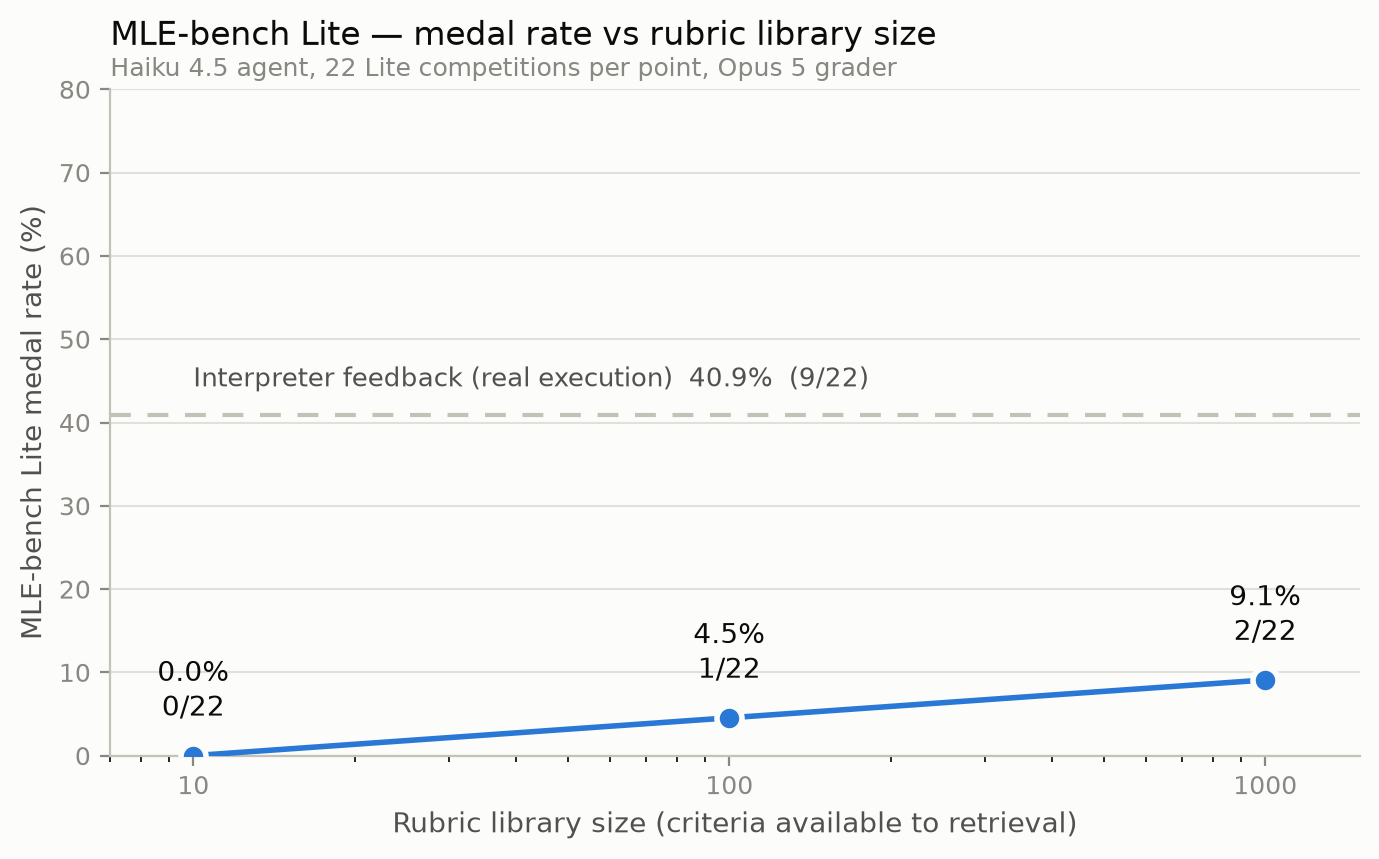
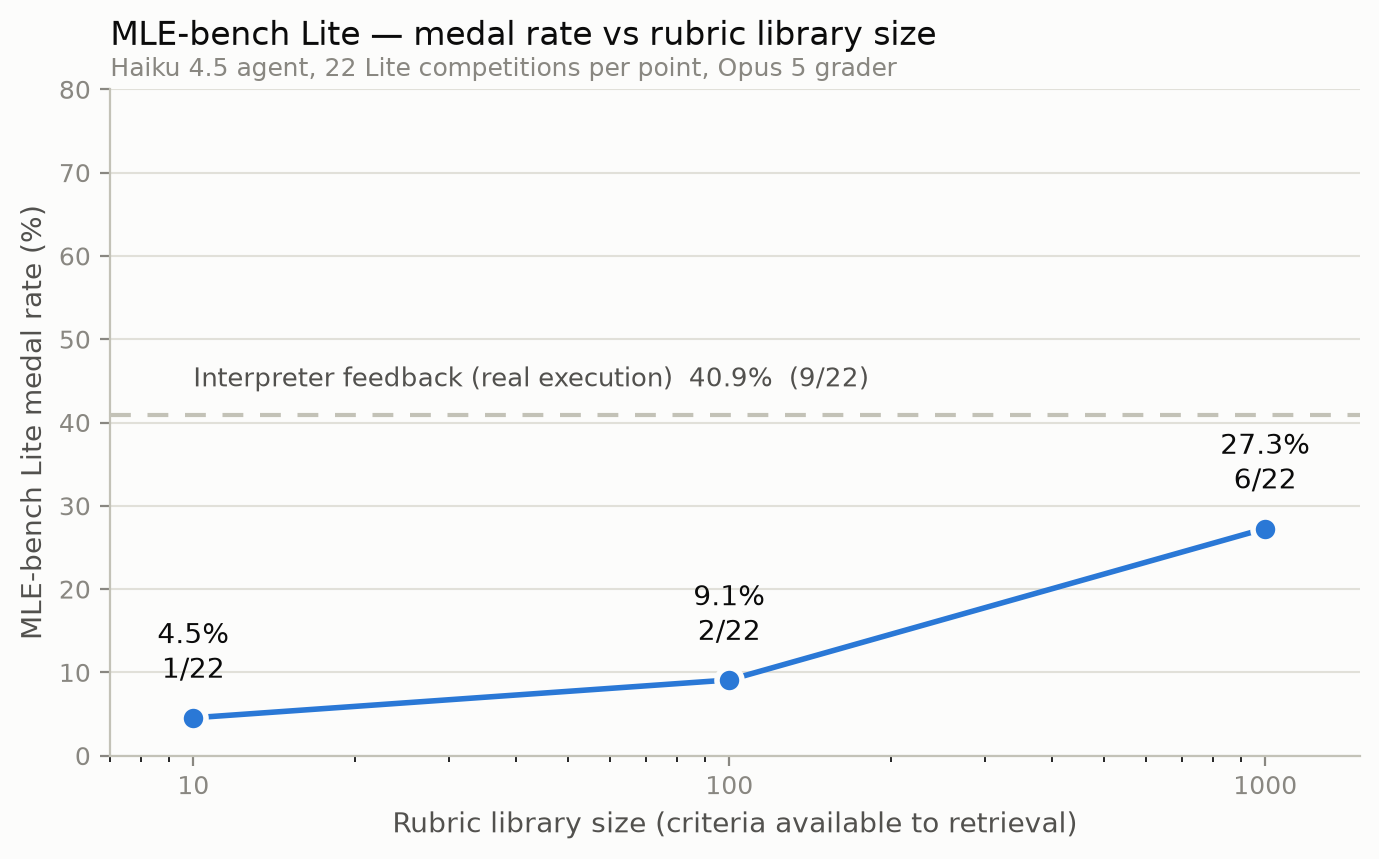
Generalize architecture section: modular env swap, benchmark-agnostic diagram; MLE 1/2/6 of 22

diff --git a/0831_updates.html b/0831_updates.html
@@ -30,12 +30,13 @@ footer{margin-top:56px;padding-top:14px;border-top:1px solid var(--grid);
 <p class="sub">New agent architecture &middot; SWE-bench scaling &middot; MLE-bench scaling</p>
 
 <h2><span class="n">1</span>We changed to this agent architecture</h2>
-<p>The harness is now <a href="https://github.com/EdwardoSunny/cwm-agent">cwm-agent</a>, a
-minimal backend-only clone of mini-swe-agent: an LLM in a loop with a single <code>bash</code>
-tool, each command in a fresh subshell inside the benchmark's official sandbox. The world
-model is purely an <b>environment swap</b> — commands still execute for their side effects,
-but the agent's observation is the CWM's rubric grading of the current <code>git diff</code>
-instead of the interpreter output. Agent, model and submission code are identical across arms.</p>
+<p>The architecture is fully modularized: the agent loop, the model wrapper, the execution
+environment and the submission mode are independent pieces, so any one swaps without touching
+the others. Execution environments are interchangeable — <b>Modal cloud sandboxes or Docker
+containers</b> — and the world model is just another environment: commands still execute in
+the sandbox for their side effects, but the observation returned to the agent is the
+<b>CWM's rubric grading of the current <code>git diff</code></b> instead of the interpreter
+output. Swapping interpreter &harr; world model changes nothing else.</p>
 
 <div class="fig">
 <svg viewBox="0 0 960 470" xmlns="http://www.w3.org/2000/svg" font-family="-apple-system,Segoe UI,Roboto,Helvetica,Arial" font-size="13">
@@ -50,17 +51,17 @@ instead of the interpreter output. Agent, model and submission code are identica
 
   <!-- row 1: task -> agent -> sandbox -->
   <rect x="30" y="30" width="190" height="64" rx="9" fill="#f6f5f0" stroke="#c3c2b7"/>
-  <text x="125" y="55" text-anchor="middle" font-weight="600" fill="#0b0b0b">SWE-bench instance</text>
-  <text x="125" y="73" text-anchor="middle" fill="#6b6a65" font-size="11">PR description + official image</text>
+  <text x="125" y="55" text-anchor="middle" font-weight="600" fill="#0b0b0b">Task &#8212; any competition</text>
+  <text x="125" y="73" text-anchor="middle" fill="#6b6a65" font-size="11">description + official image</text>
 
   <rect x="290" y="22" width="250" height="80" rx="9" fill="#e3edfb" stroke="#2a78d6" stroke-width="1.5"/>
-  <text x="415" y="45" text-anchor="middle" font-weight="700" fill="#1b4f91">&#9312; Agent (Haiku 4.5)</text>
+  <text x="415" y="45" text-anchor="middle" font-weight="700" fill="#1b4f91">&#9312; Coding agent (LLM)</text>
   <text x="415" y="63" text-anchor="middle" fill="#3a3a37" font-size="11">one bash tool &#183; linear message history</text>
   <text x="415" y="79" text-anchor="middle" fill="#6b6a65" font-size="11">limits: 250 steps &#183; $3 &#183; 3 format errors</text>
 
   <rect x="620" y="22" width="310" height="80" rx="9" fill="#fff" stroke="#0b0b0b"/>
   <text x="775" y="45" text-anchor="middle" font-weight="600" fill="#0b0b0b">&#9313; Sandbox (Modal / Docker)</text>
-  <text x="775" y="63" text-anchor="middle" fill="#3a3a37" font-size="11">fresh subshell per command in /testbed</text>
+  <text x="775" y="63" text-anchor="middle" fill="#3a3a37" font-size="11">fresh subshell per command in the task workdir</text>
   <text x="775" y="79" text-anchor="middle" fill="#6b6a65" font-size="11">command ALWAYS runs &#8212; side effects persist</text>
 
   <line x1="220" y1="62" x2="286" y2="62" stroke="#6b6a65" stroke-width="1.5" marker-end="url(#arr)"/>
@@ -76,16 +77,15 @@ instead of the interpreter output. Agent, model and submission code are identica
 
   <!-- interpreter lane -->
   <rect x="150" y="170" width="360" height="86" rx="9" fill="#fdeaea" stroke="#e34948" stroke-width="2"/>
-  <text x="330" y="193" text-anchor="middle" font-weight="700" fill="#b02a2a">interpreter feedback (baseline)</text>
-  <text x="330" y="213" text-anchor="middle" fill="#3a3a37" font-size="11">returncode + real output (10k-char cap)</text>
-  <text x="330" y="231" text-anchor="middle" fill="#6b6a65" font-size="11">72.4% resolved</text>
+  <text x="330" y="200" text-anchor="middle" font-weight="700" fill="#b02a2a">interpreter feedback (baseline)</text>
+  <text x="330" y="222" text-anchor="middle" fill="#3a3a37" font-size="11">returncode + real output (10k-char cap)</text>
 
   <!-- CWM lane -->
   <rect x="580" y="170" width="360" height="120" rx="9" fill="#e2f5ee" stroke="#1baf7a" stroke-width="2"/>
   <text x="760" y="192" text-anchor="middle" font-weight="700" fill="#0a7a45">&#9314; CWM feedback (world model)</text>
   <text x="760" y="212" text-anchor="middle" fill="#3a3a37" font-size="11">git diff of the change set &#8594; top-k rubrics</text>
-  <text x="760" y="228" text-anchor="middle" fill="#3a3a37" font-size="11">(embedding cosine over swe-rubrics-10/100/1000)</text>
-  <text x="760" y="244" text-anchor="middle" fill="#3a3a37" font-size="11">&#8594; Opus 5 grades each 0/1 without executing</text>
+  <text x="760" y="228" text-anchor="middle" fill="#3a3a37" font-size="11">(embedding cosine over the mined rubric library)</text>
+  <text x="760" y="244" text-anchor="middle" fill="#3a3a37" font-size="11">&#8594; an LLM grader marks each 0/1 without executing</text>
   <text x="760" y="262" text-anchor="middle" fill="#6b6a65" font-size="11">agent sees violated criteria + predicted reward;</text>
   <text x="760" y="277" text-anchor="middle" fill="#6b6a65" font-size="11">interpreter output hidden, returncode kept</text>
 
@@ -100,13 +100,13 @@ instead of the interpreter output. Agent, model and submission code are identica
   <text x="346" y="300" fill="#6b6a65" font-size="11">loop done</text>
   <text x="776" y="316" fill="#6b6a65" font-size="11">loop done</text>
   <rect x="150" y="334" width="790" height="58" rx="9" fill="#fdf3dd" stroke="#eda100" stroke-width="2"/>
-  <text x="545" y="357" text-anchor="middle" font-weight="700" fill="#a5670a">&#9315; explicit submit &#8212; passes through the swap untouched</text>
-  <text x="545" y="376" text-anchor="middle" fill="#3a3a37" font-size="11.5">echo COMPLETE_TASK_AND_SUBMIT_FINAL_OUTPUT &amp;&amp; cat patch.txt</text>
+  <text x="545" y="357" text-anchor="middle" font-weight="700" fill="#a5670a">&#9315; submit &#8212; passes through the swap untouched</text>
+  <text x="545" y="376" text-anchor="middle" fill="#3a3a37" font-size="11.5">explicit sentinel command, or the artifact (patch / submission file) collected at stop</text>
 
   <!-- row 4: grading -->
   <line x1="545" y1="392" x2="545" y2="418" stroke="#6b6a65" stroke-width="1.5" marker-end="url(#arr)"/>
   <rect x="290" y="422" width="510" height="42" rx="9" fill="#f6f5f0" stroke="#0b0b0b" stroke-width="1.5"/>
-  <text x="545" y="448" text-anchor="middle" font-weight="600" fill="#0b0b0b">preds.json &#8594; official SWE-bench grading (sb-cli)</text>
+  <text x="545" y="448" text-anchor="middle" font-weight="600" fill="#0b0b0b">final artifact &#8594; the benchmark's official grader</text>
 </svg>
 </div>
 

diff --git a/make_0831_plots.py b/make_0831_plots.py
@@ -37,7 +37,7 @@ SWE = {
 # MLE-bench Lite.
 MLE = {
     "sizes": [10, 100, 1000],
-    "counts": [0, 1, 2],  # medals per rubric-library size
+    "counts": [1, 2, 6],  # medals per rubric-library size
     "baseline_count": 9,  # interpreter feedback
     "total": 22,
     "ylabel": "MLE-bench Lite medal rate (%)",
